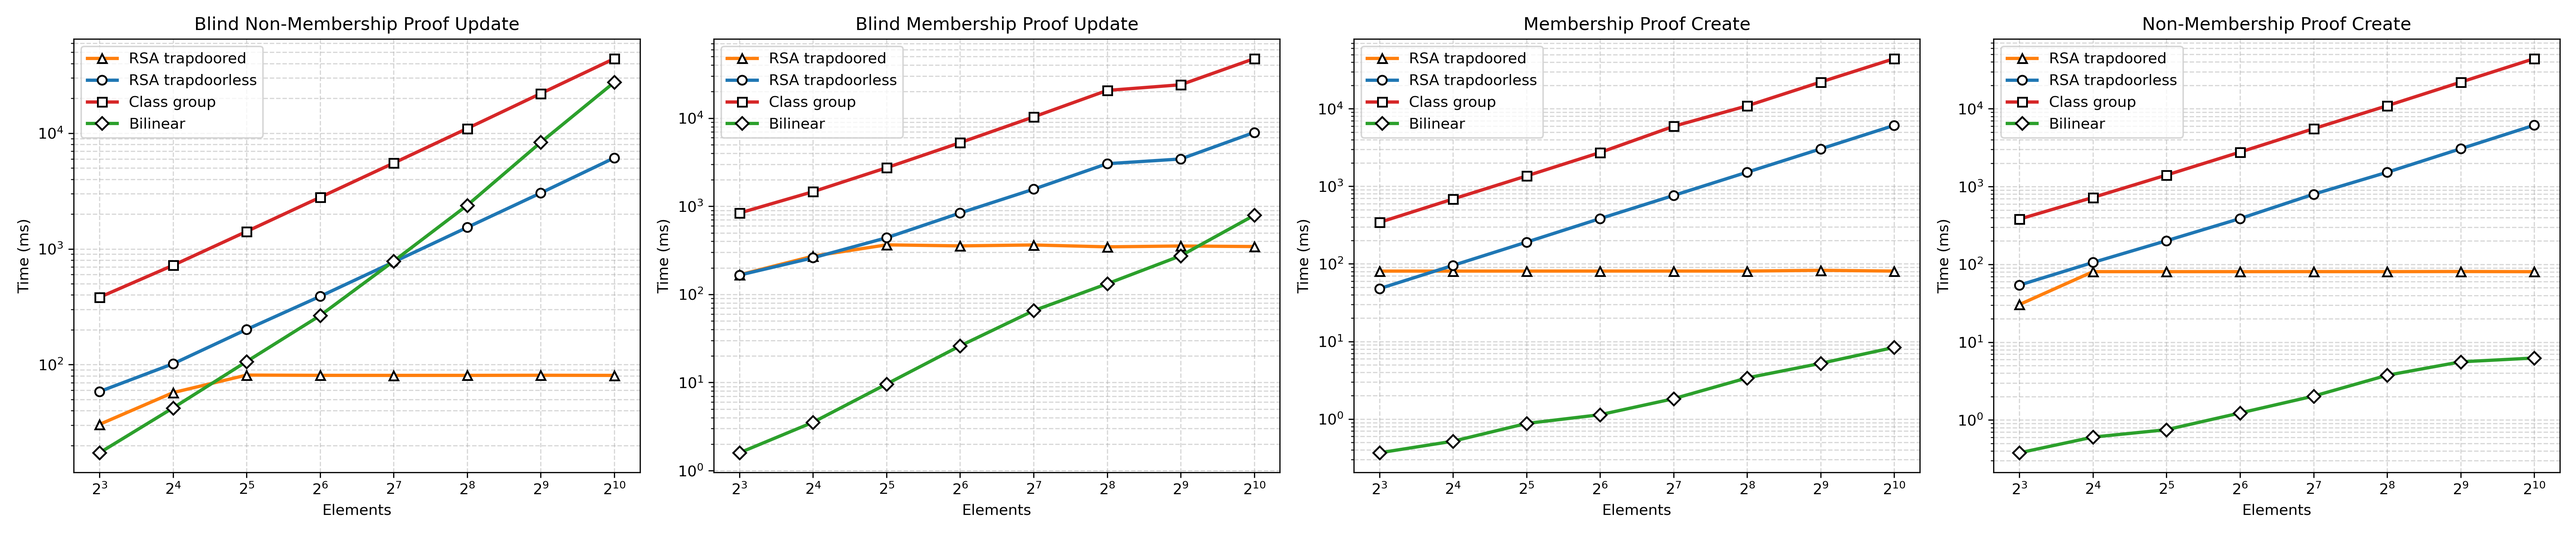
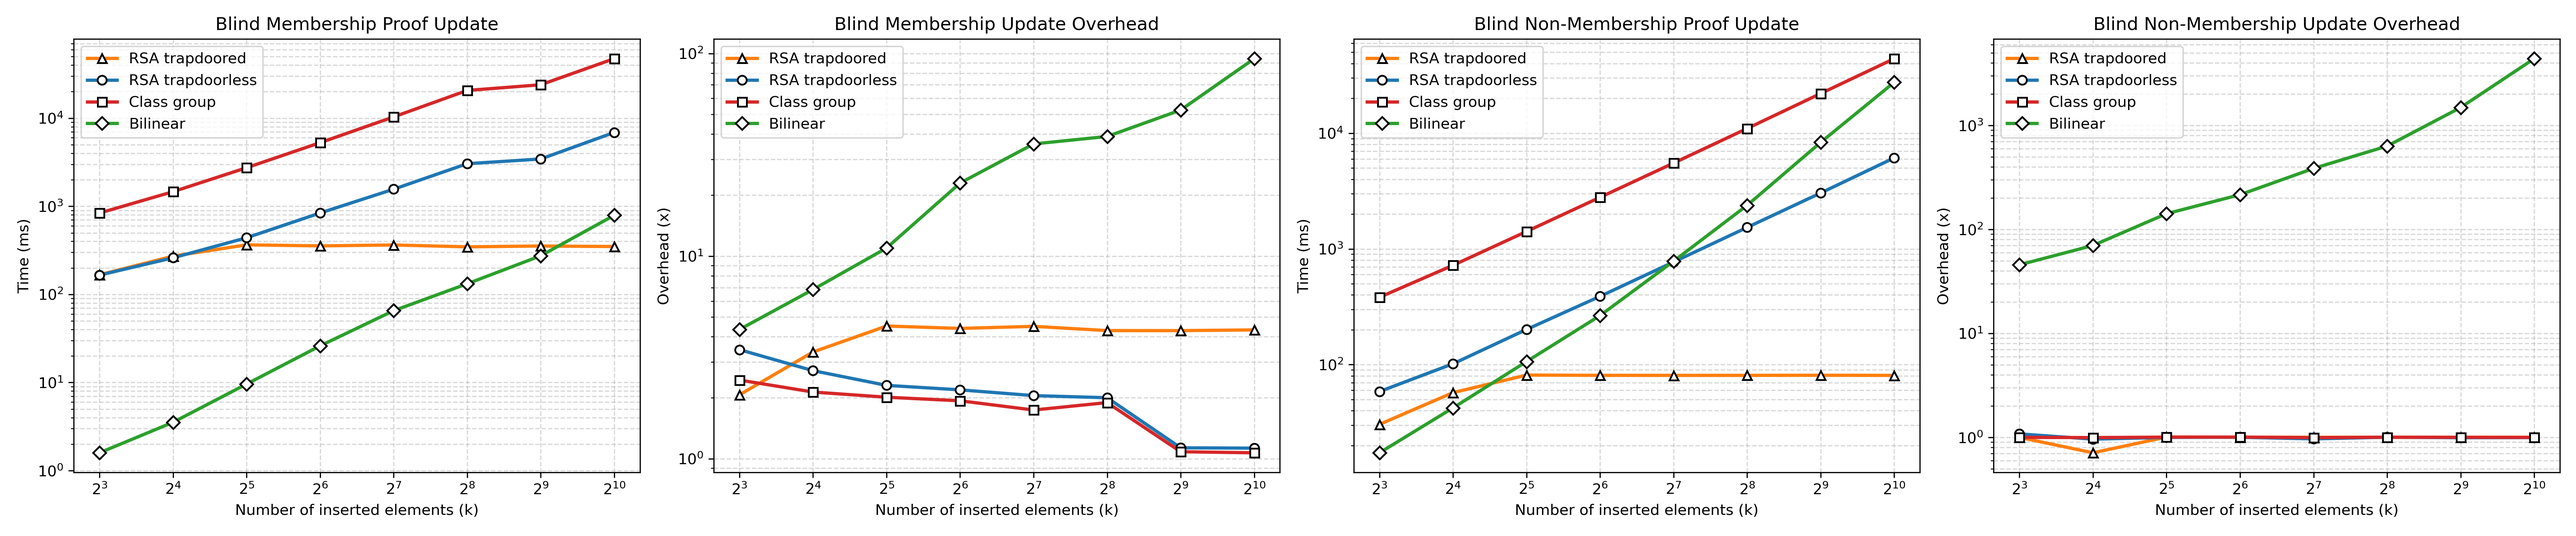
feat(data): add new benchmark CSV files and update plotting script for overhead

diff --git a/figures/plot_bilinear_vs_class_vs_rsa.py b/figures/plot_bilinear_vs_class_vs_rsa.py
@@ -10,25 +10,6 @@ OUT_CSV_DIR = Path("data_for_latex")
 
 FAMILIES = [
     (
-        "Blind Non-Membership Proof Update",
-        [
-            (
-                "rsa_trapdoored_non_mem_blind_proof_upd",
-                "RSA trapdoored",
-                "#ff7f0e",
-                "^",
-            ),
-            (
-                "rsa_trapdoorless_non_mem_blind_proof_upd",
-                "RSA trapdoorless",
-                "#1f77b4",
-                "o",
-            ),
-            ("class_non_mem_blind_proof_upd", "Class group", "#d62728", "s"),
-            ("bilinear_non_mem_blind_proof_upd", "Bilinear", "#2ca02c", "D"),
-        ],
-    ),
-    (
         "Blind Membership Proof Update",
         [
             (
@@ -48,36 +29,95 @@ FAMILIES = [
         ],
     ),
     (
-        "Membership Proof Create",
-        [
-            ("rsa_trapdoored_mem_proof_create", "RSA trapdoored", "#ff7f0e", "^"),
-            (
-                "rsa_trapdoorless_mem_proof_create",
-                "RSA trapdoorless",
-                "#1f77b4",
-                "o",
-            ),
-            ("class_mem_proof_create", "Class group", "#d62728", "s"),
-            ("bilinear_mem_proof_create", "Bilinear", "#2ca02c", "D"),
-        ],
-    ),
-    (
-        "Non-Membership Proof Create",
+        "Blind Membership Update Overhead",
         [
             (
-                "rsa_trapdoored_non_mem_proof_create",
+                (
+                    "rsa_trapdoored_mem_blind_proof_upd",
+                    "rsa_trapdoored_mem_proof_create",
+                ),
                 "RSA trapdoored",
                 "#ff7f0e",
                 "^",
             ),
             (
-                "rsa_trapdoorless_non_mem_proof_create",
+                (
+                    "rsa_trapdoorless_mem_blind_proof_upd",
+                    "rsa_trapdoorless_mem_proof_create",
+                ),
                 "RSA trapdoorless",
                 "#1f77b4",
                 "o",
             ),
-            ("class_non_mem_proof_create", "Class group", "#d62728", "s"),
-            ("bilinear_non_mem_proof_create", "Bilinear", "#2ca02c", "D"),
+            (
+                ("class_mem_blind_proof_upd", "class_mem_proof_create"),
+                "Class group",
+                "#d62728",
+                "s",
+            ),
+            (
+                ("bilinear_mem_blind_proof_upd", "bilinear_mem_proof_create"),
+                "Bilinear",
+                "#2ca02c",
+                "D",
+            ),
+        ],
+    ),
+    (
+        "Blind Non-Membership Proof Update",
+        [
+            (
+                "rsa_trapdoored_non_mem_blind_proof_upd",
+                "RSA trapdoored",
+                "#ff7f0e",
+                "^",
+            ),
+            (
+                "rsa_trapdoorless_non_mem_blind_proof_upd",
+                "RSA trapdoorless",
+                "#1f77b4",
+                "o",
+            ),
+            ("class_non_mem_blind_proof_upd", "Class group", "#d62728", "s"),
+            ("bilinear_non_mem_blind_proof_upd", "Bilinear", "#2ca02c", "D"),
+        ],
+    ),
+    (
+        "Blind Non-Membership Update Overhead",
+        [
+            (
+                (
+                    "rsa_trapdoored_non_mem_blind_proof_upd",
+                    "rsa_trapdoored_non_mem_proof_create",
+                ),
+                "RSA trapdoored",
+                "#ff7f0e",
+                "^",
+            ),
+            (
+                (
+                    "rsa_trapdoorless_non_mem_blind_proof_upd",
+                    "rsa_trapdoorless_non_mem_proof_create",
+                ),
+                "RSA trapdoorless",
+                "#1f77b4",
+                "o",
+            ),
+            (
+                ("class_non_mem_blind_proof_upd", "class_non_mem_proof_create"),
+                "Class group",
+                "#d62728",
+                "s",
+            ),
+            (
+                (
+                    "bilinear_non_mem_blind_proof_upd",
+                    "bilinear_non_mem_proof_create",
+                ),
+                "Bilinear",
+                "#2ca02c",
+                "D",
+            ),
         ],
     ),
 ]
@@ -114,13 +154,27 @@ def load_series(bench_id: str):
     return rows
 
 
-def export_csv(bench_id: str, rows):
+def build_overhead_series(update_bench_id: str, create_bench_id: str):
+    upd_rows = dict(load_series(update_bench_id))
+    create_rows = dict(load_series(create_bench_id))
+    common_n = sorted(set(upd_rows) & set(create_rows))
+
+    rows = []
+    for n in common_n:
+        create_ms = create_rows[n]
+        if create_ms <= 0:
+            continue
+        rows.append((n, upd_rows[n] / create_ms))
+    return rows
+
+
+def export_csv(bench_id: str, rows, y_label: str = "Time (ms)"):
     OUT_CSV_DIR.mkdir(parents=True, exist_ok=True)
     out_path = OUT_CSV_DIR / f"{bench_id}.csv"
     with out_path.open("w", encoding="utf-8") as f:
-        f.write("Elements,Time (ms)\n")
-        for n, ms in rows:
-            f.write(f"{n},{ms}\n")
+        f.write(f"Elements,{y_label}\n")
+        for n, value in rows:
+            f.write(f"{n},{value}\n")
 
 
 def main():
@@ -129,9 +183,21 @@ def main():
 
     fig, axes = plt.subplots(1, 4, figsize=(24, 5))
 
-    for ax, (title, families) in zip(axes, FAMILIES):
-        for bench_id, label, color, marker in families:
-            rows = load_series(bench_id)
+    for panel_idx, (ax, (title, families)) in enumerate(zip(axes, FAMILIES)):
+        is_overhead_panel = panel_idx in (1, 3)
+
+        for bench_ref, label, color, marker in families:
+            if is_overhead_panel:
+                update_bench_id, create_bench_id = bench_ref
+                rows = build_overhead_series(update_bench_id, create_bench_id)
+                export_id = f"{update_bench_id}_over_create"
+                y_axis_label = "Overhead (x)"
+            else:
+                bench_id = bench_ref
+                rows = load_series(bench_id)
+                export_id = bench_id
+                y_axis_label = "Time (ms)"
+
             if not rows:
                 continue
 
@@ -150,14 +216,14 @@ def main():
                 label=label,
             )
 
-            export_csv(bench_id, rows)
-            print(f"Loaded {bench_id}: {len(rows)} points -> {x}")
+            export_csv(export_id, rows, y_axis_label)
+            print(f"Loaded {export_id}: {len(rows)} points -> {x}")
 
         ax.set_title(title)
         ax.set_xscale("log", base=2)
         ax.set_yscale("log", base=10)
-        ax.set_xlabel("Elements")
-        ax.set_ylabel("Time (ms)")
+        ax.set_xlabel("Number of inserted elements (k)")
+        ax.set_ylabel("Overhead (x)" if is_overhead_panel else "Time (ms)")
         ax.grid(True, which="both", linestyle="--", alpha=0.5)
         ax.legend()
 
